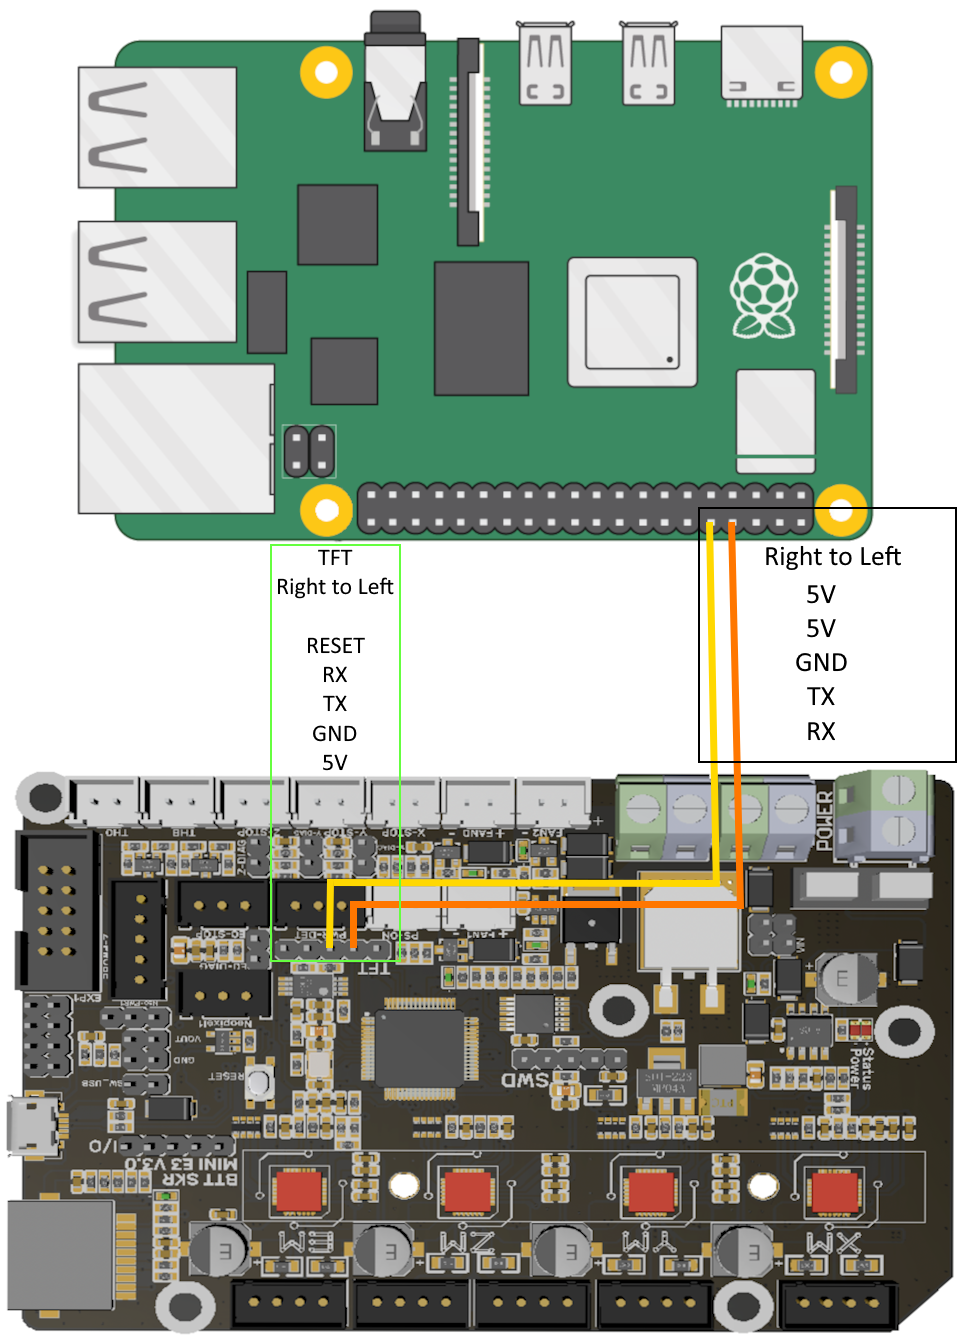
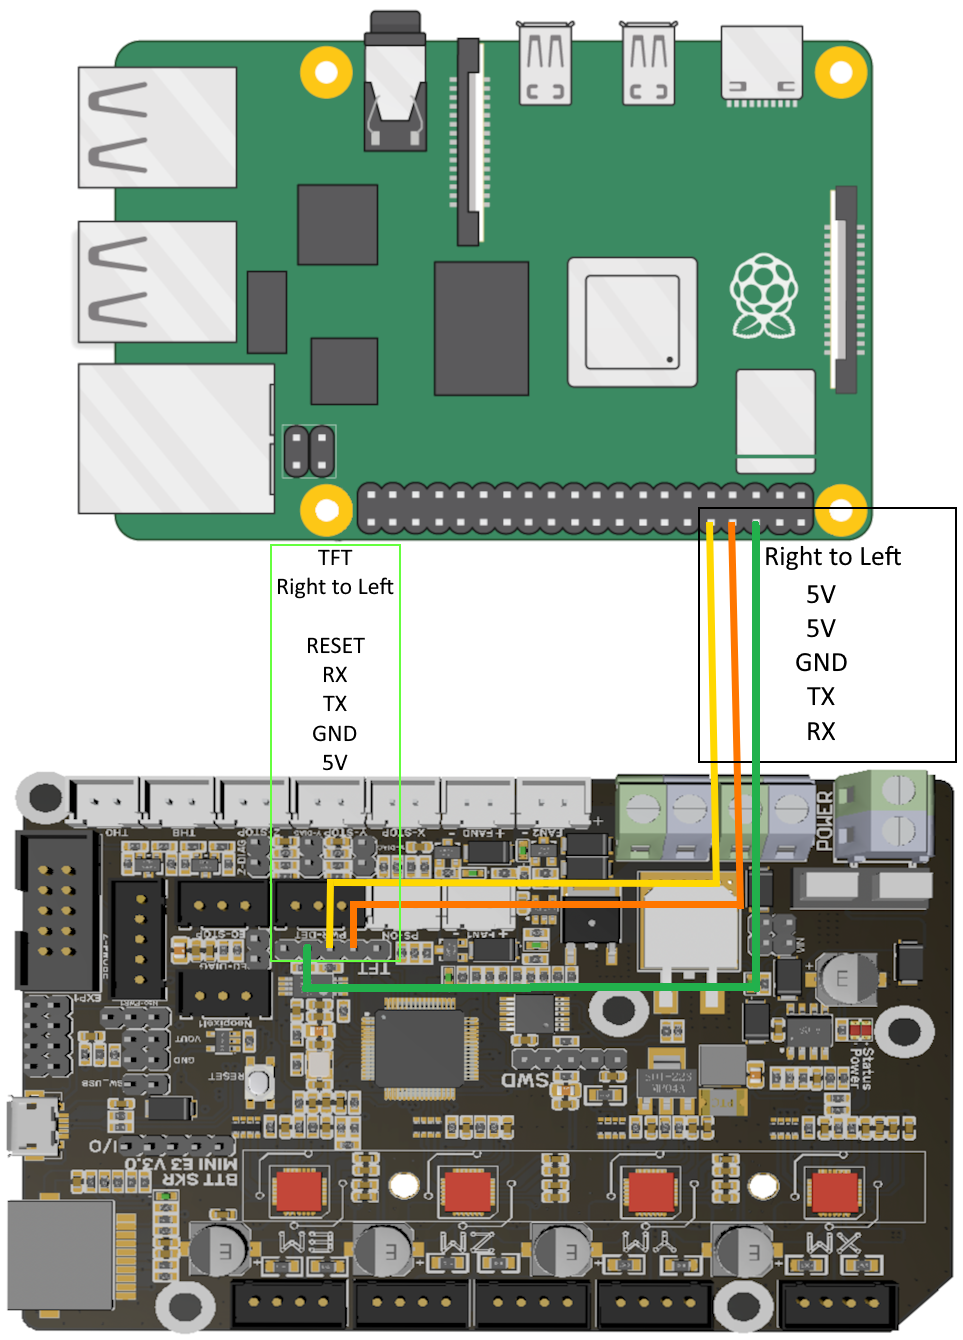
Update uart guide to include a ground

Changed region(s): [[0.3115, 0.7037, 0.7788, 0.7649], [0.7788, 0.3978, 0.81, 0.7343]]

diff --git a/documentation/Klipper/mods/uart_connection.md b/documentation/Klipper/mods/uart_connection.md
@@ -8,19 +8,21 @@ Table o' Contents
 - [Pi Changes](#pi-changes)
 
 ## Wiring
-Grab yourself a pair of wires (I used 26 AWG) roughly around 16cm in length  
+Grab yourself a trio of wires (I used 26 AWG) roughly around 16cm in length  
 and crimp both ends as Female Dupont connectors.
 (You can also use individual female to female jumper wires if you have them from a breadboard kit)  
 
 Next you will need to locate the pins in question and Remember that pins go to the opposite signal on either end of the cable.    
-RX => TX  
-TX => RX
+TX  => RX  (Orange)  
+RX  => TX  (Yellow)  
+GND => GND (Green)  
 
-On a Raspberry Pi 3/4 you will be using pin 8 as TX and pin 10 as RX  
-and on the SKR Mini E3 V3, you will need to use two of the TFT pins (see diagram)  
 
-![Diagram of Raspberry Pi Connecting via UART to SKR Mini E3 V3](../../images/hardware_options/UART_Connection/oversized_uart_diagram_labelled.png)
+On a Raspberry Pi 3/4 you will be using pin 6 as GND (Green), pin 8 as TX (Orange), and pin 10 as RX(Yellow).
+and on the SKR Mini E3 V3, you will need to use three of the TFT pins (see diagram)  
 
+![Diagram of Raspberry Pi Connecting via UART to SKR Mini E3 V3](../../images/hardware_options/UART_Connection/oversized_uart_diagram_labelled.png)  
+**Previous versions of this guide used only two wires (no ground).  Some users reported issues with serial connectivity without the interfaces sharing a common ground.  Thank you to discord user @Sturn for the find!
 
 ## Klipper changes
 * Instructions are specific to SKR Mini E3 V3 with regard to Flashing
